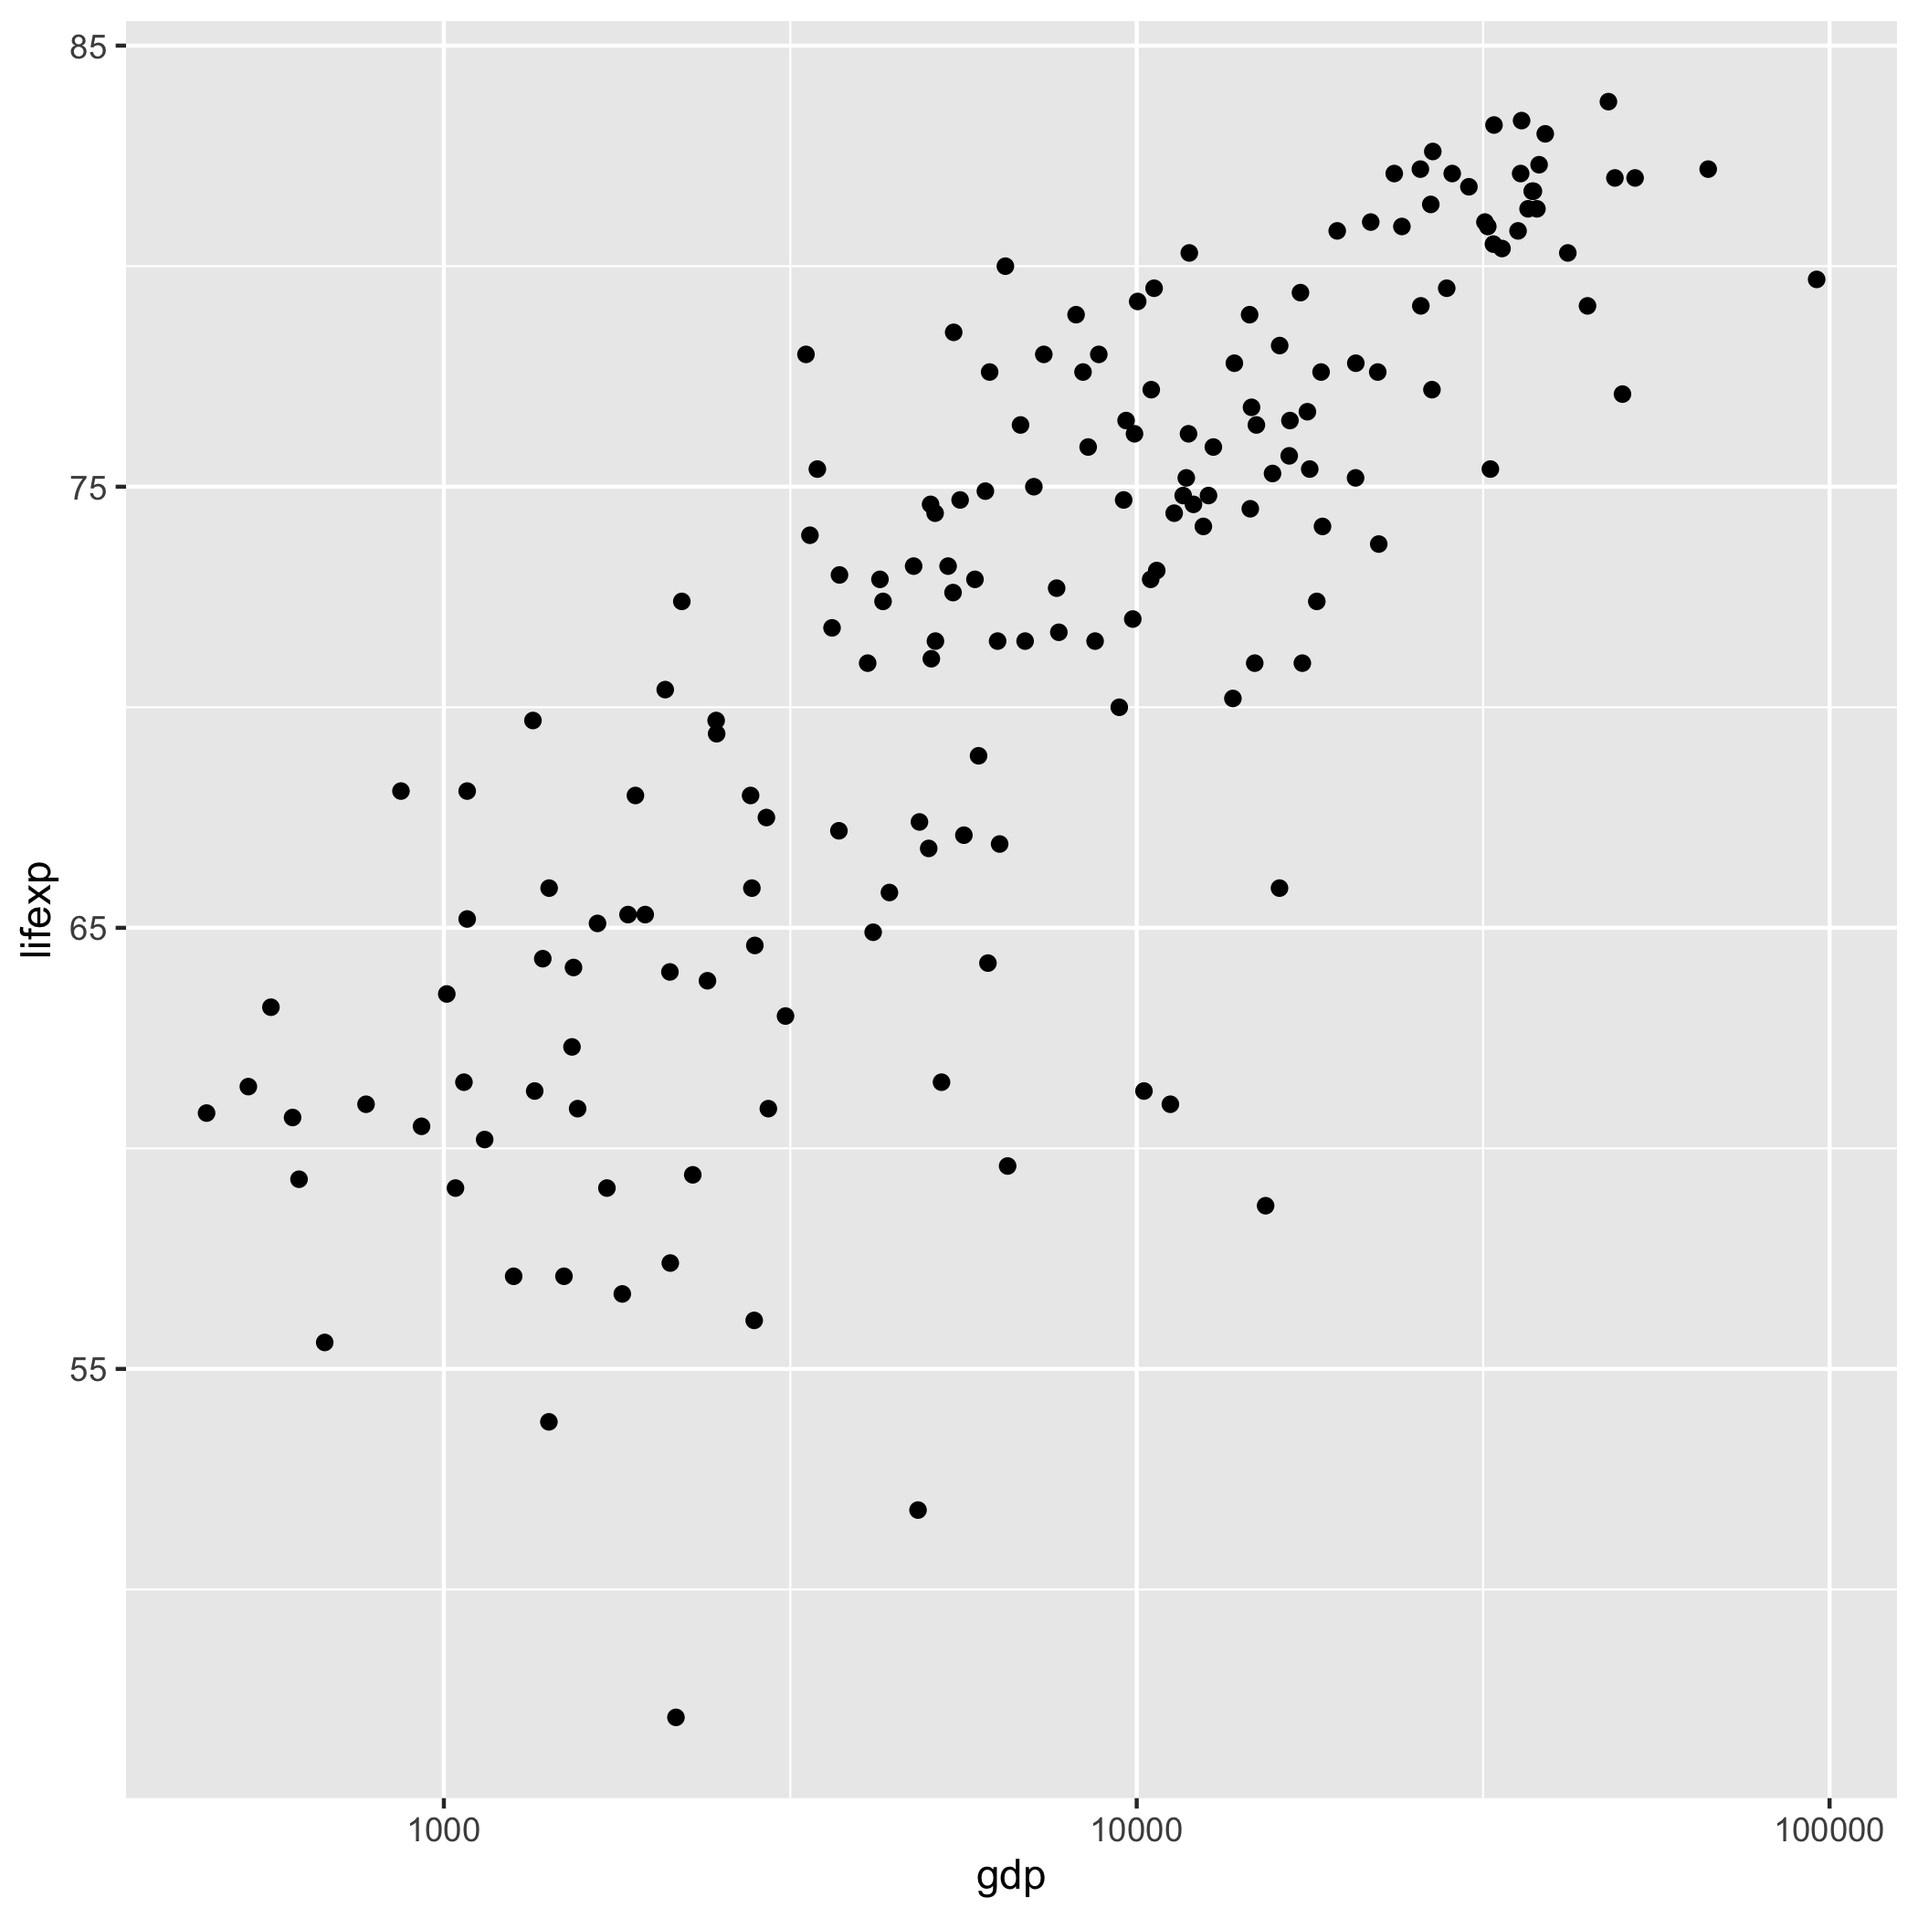
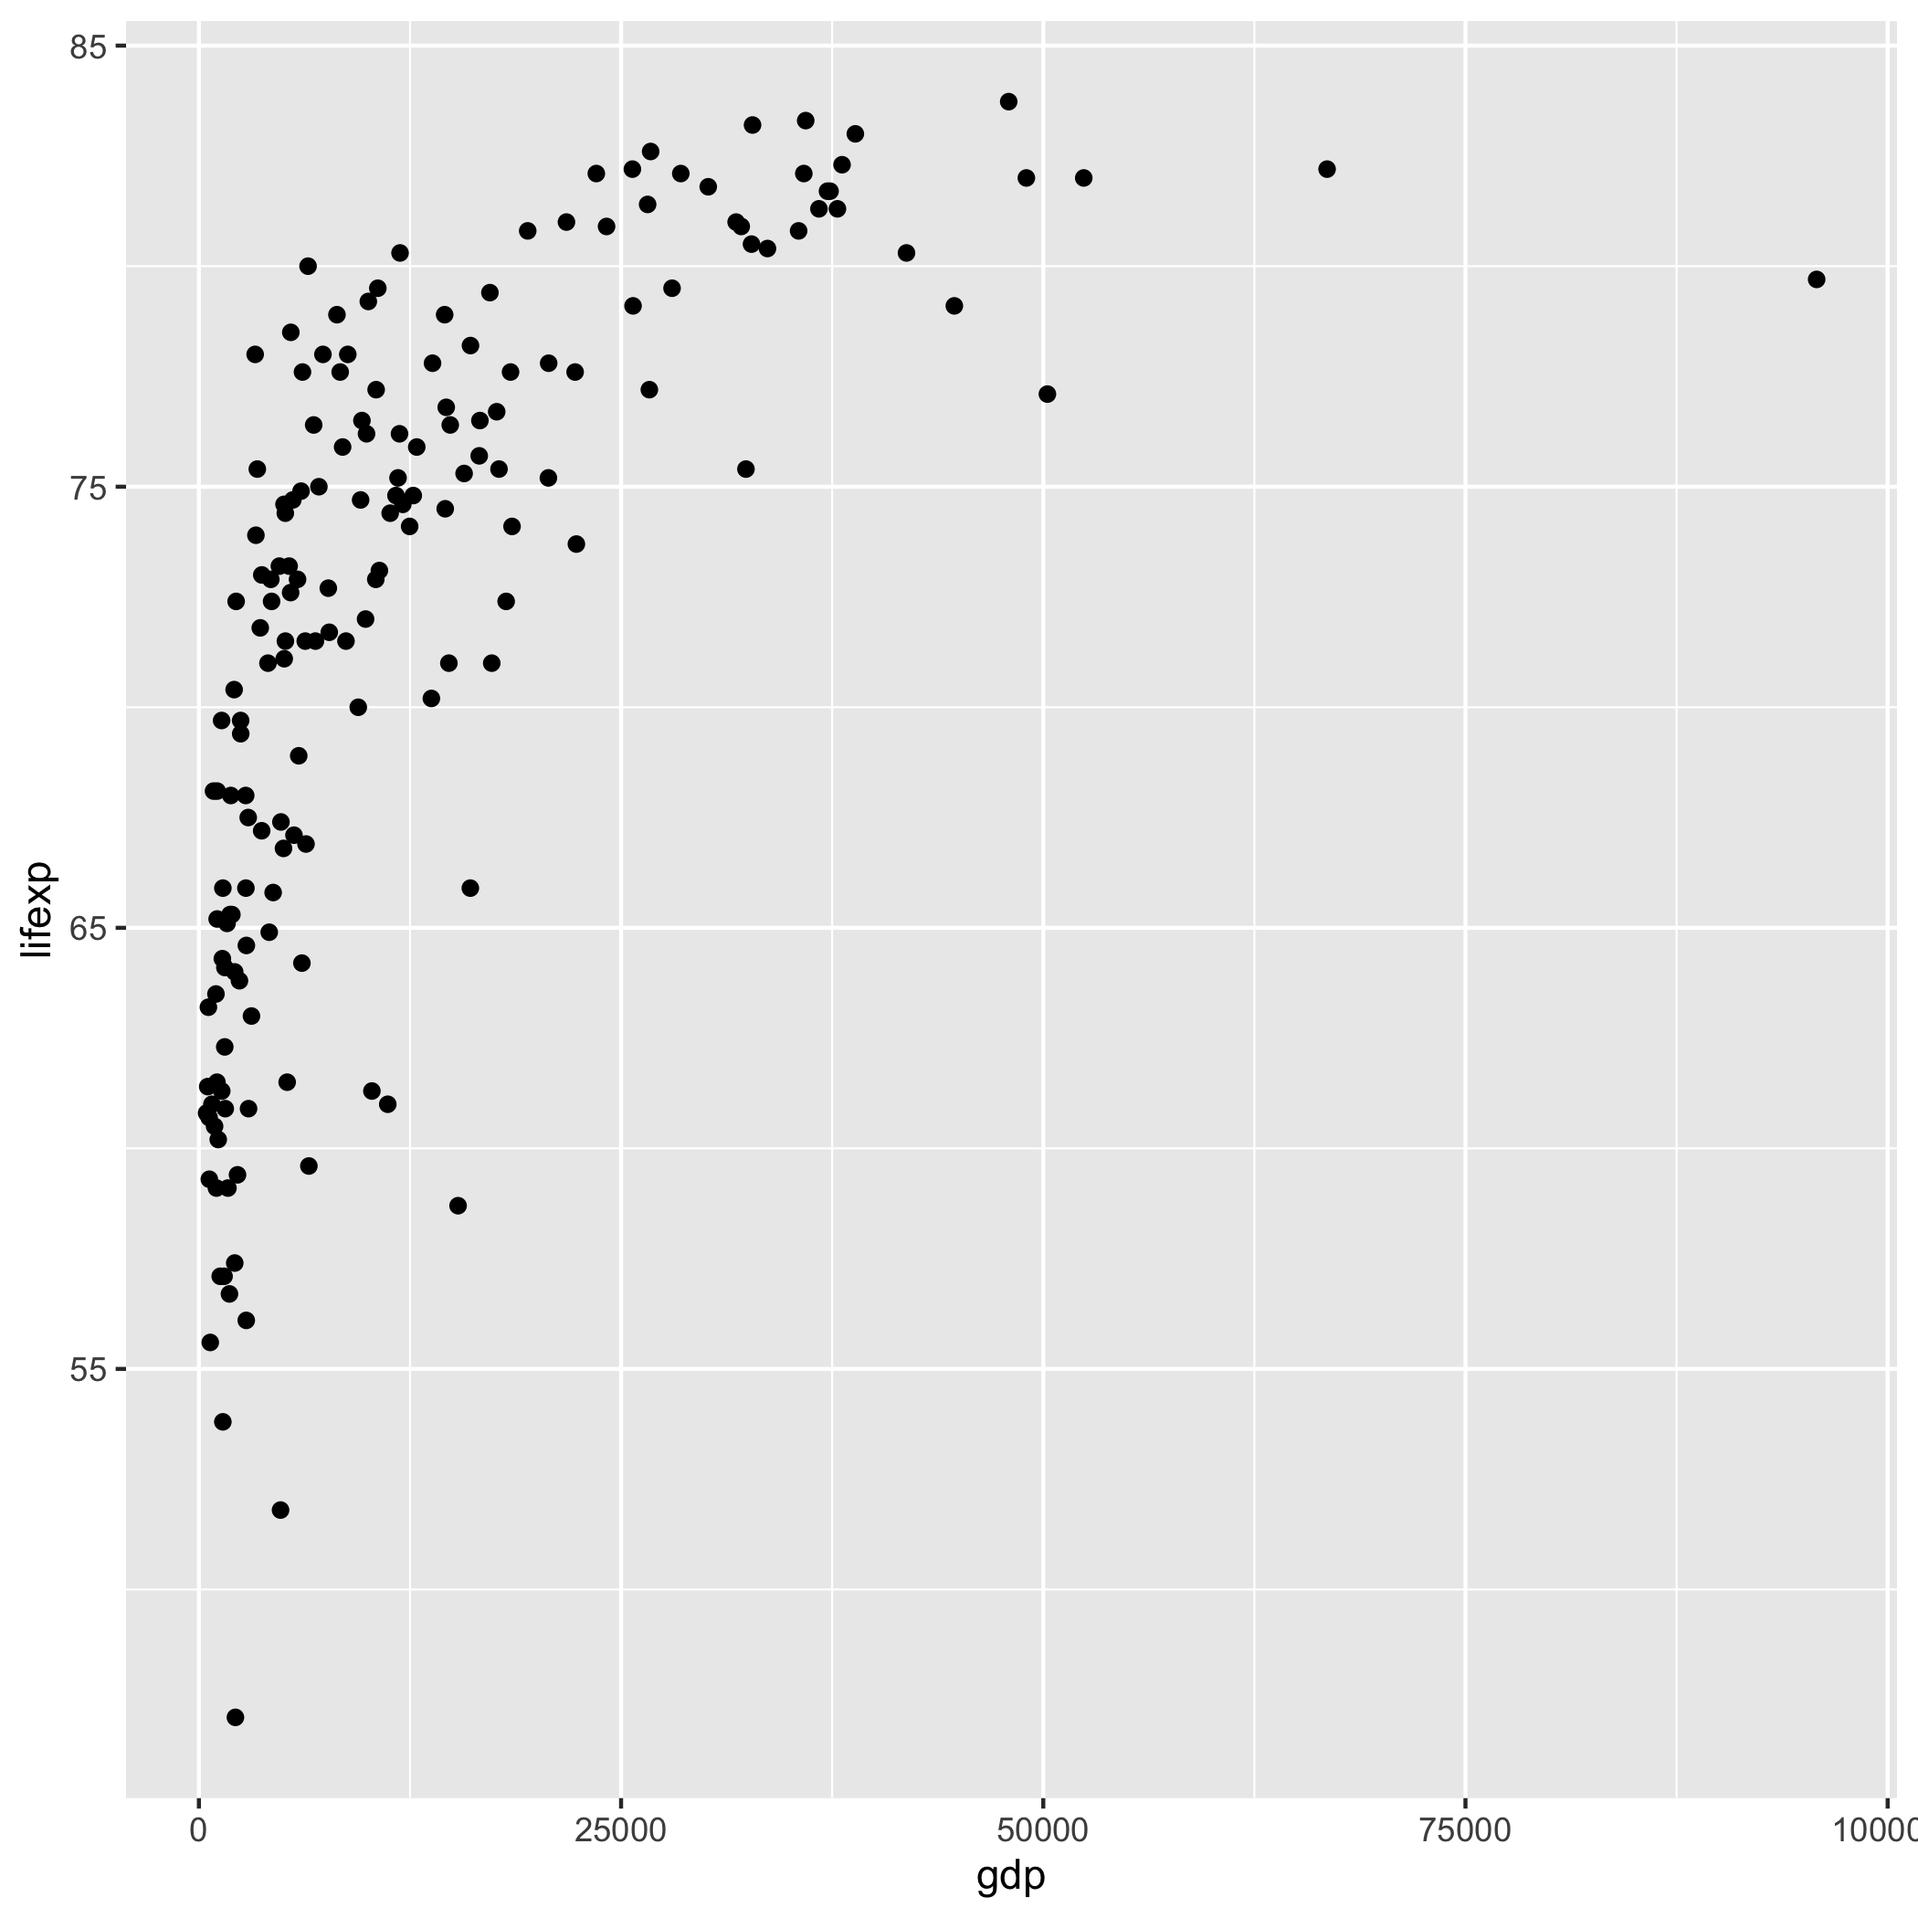
update stats pres

diff --git a/07_Stats.html b/07_Stats.html
@@ -677,13 +677,19 @@ var.test(tabreg |&gt; dplyr::filter(Region == 'europe_east') |&gt; pull(lifexp),
 
 ## Диаграмма рассеяния
 
+.pull-left[
 
 ```r
-ggplot(tabreg, aes(gdp, lifexp)) +
+ggplot(tabreg, 
+       aes(gdp, lifexp)) +
   geom_point()
 ```
+]
 
-![](07_Stats_files/figure-html/unnamed-chunk-34-1.png)&lt;!-- --&gt;
+.pull-left[
+![](07_Stats_files/figure-html/scat-out-1.png)&lt;!-- --&gt;
+]
+
 
 ---
 
@@ -701,7 +707,7 @@ ggplot(tabreg,
 ]
 
 .pull-right[
-![](07_Stats_files/figure-html/scat-out-1.png)&lt;!-- --&gt;
+![](07_Stats_files/figure-html/scat1-out-1.png)&lt;!-- --&gt;
 ]
 
 ---
@@ -814,7 +820,6 @@ ggplot(tabreg, aes(gdp, lifexp)) +
 ![](07_Stats_files/figure-html/den2d2-out-1.png)&lt;!-- --&gt;
 ]
 
-
 ---
 
 ## Биннинг (агрегирование по ячейкам)
@@ -831,7 +836,7 @@ ggplot(tabreg, aes(gdp, lifexp)) +
   theme_bw()
 ```
 
-![](07_Stats_files/figure-html/unnamed-chunk-35-1.png)&lt;!-- --&gt;
+![](07_Stats_files/figure-html/unnamed-chunk-34-1.png)&lt;!-- --&gt;
 ]
 ]
 
@@ -847,7 +852,7 @@ ggplot(tabreg, aes(gdp, lifexp)) +
   theme_bw()
 ```
 
-![](07_Stats_files/figure-html/unnamed-chunk-36-1.png)&lt;!-- --&gt;
+![](07_Stats_files/figure-html/unnamed-chunk-35-1.png)&lt;!-- --&gt;
 ]
 ]
 
@@ -929,6 +934,7 @@ summary(model)
 
 Аппроксимированные значения извлекаются через `fitted()`:
 
+.pull-left[
 
 ```r
 df = tibble(lifexp = fitted(model),
@@ -936,11 +942,18 @@ df = tibble(lifexp = fitted(model),
               
 ggplot(tabreg, aes(gdp, lifexp)) +
   geom_point(alpha = 0.5) +
-  geom_line(data = df, aes(gdp, lifexp), color = 'red', size = 1) +
+  geom_line(data = df, 
+            aes(gdp, lifexp), 
+            color = 'red', 
+            size = 1) +
   theme_bw()
 ```
+]
 
-![](07_Stats_files/figure-html/unnamed-chunk-40-1.png)&lt;!-- --&gt;
+.pull-right[
+![](07_Stats_files/figure-html/lmplot-out-1.png)&lt;!-- --&gt;
+]
+
 
 ---
 
